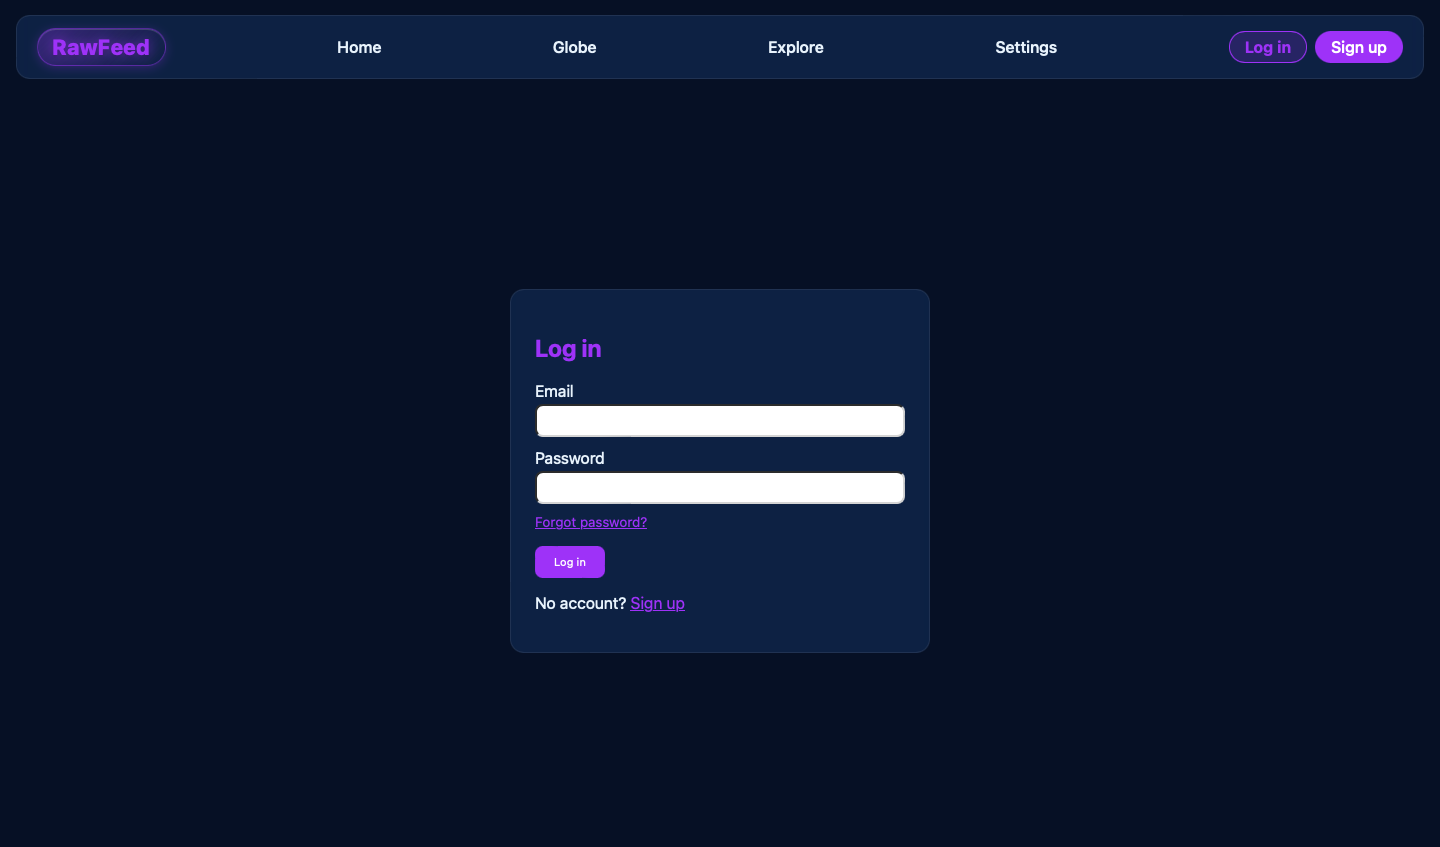
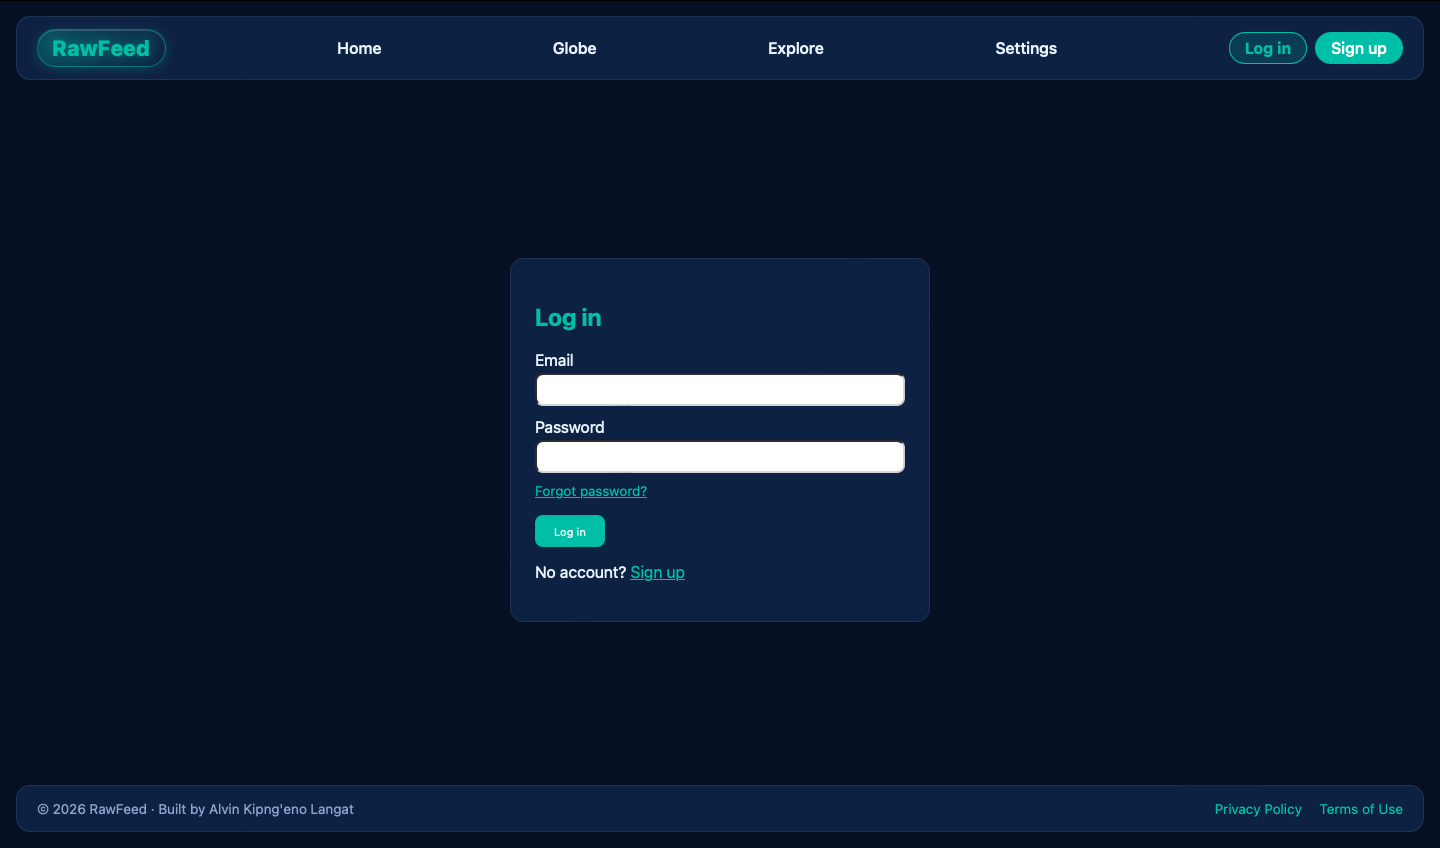
Update repository preview image

diff --git a/docs/README.md b/docs/README.md
@@ -1,4 +1,4 @@
-![RawFeed preview](docs/preview.png)
+![RawFeed preview](preview.png)
 
 ## RawFeed
 
